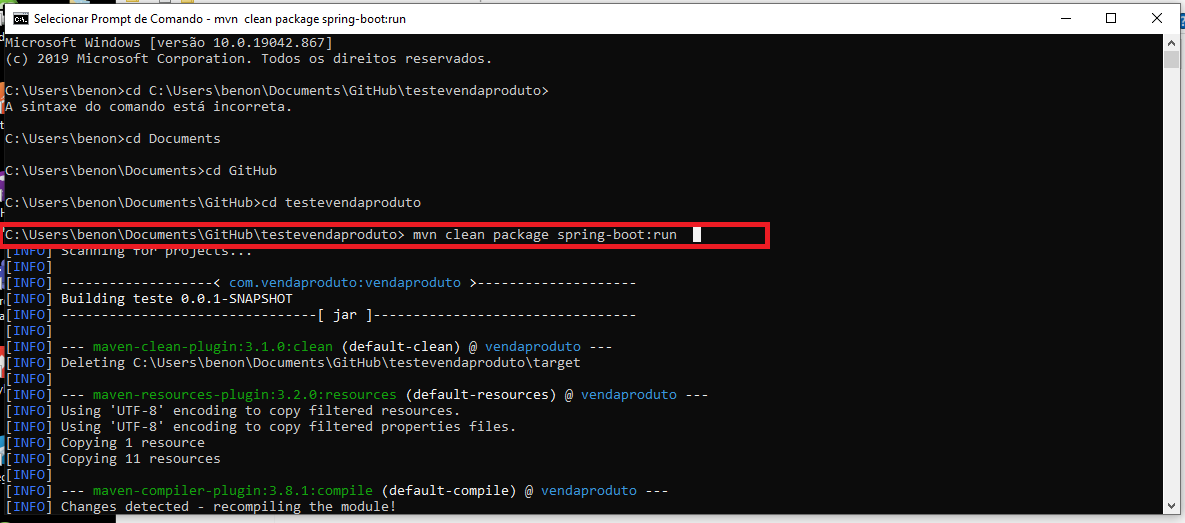
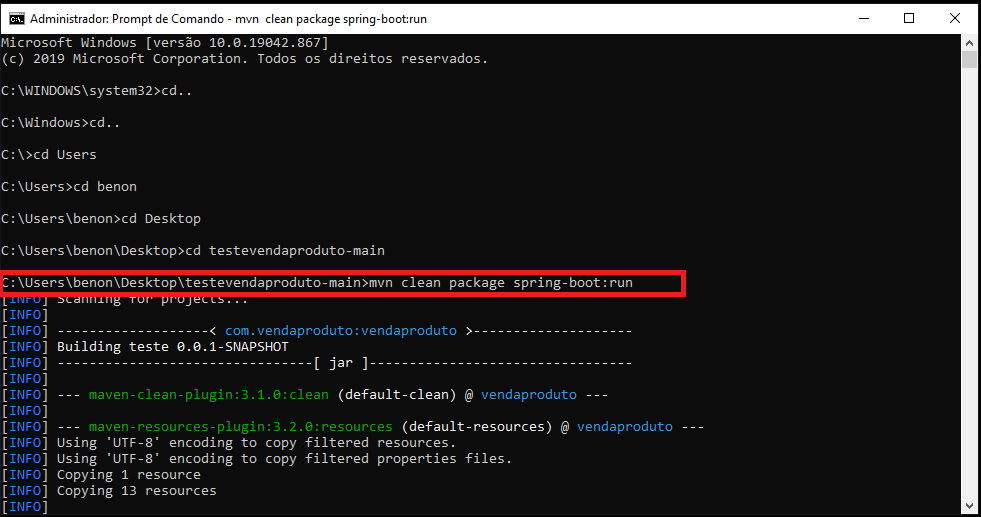
teste

Changed region(s): [[0.0, 0.0, 1.0, 1.0]]

diff --git a/README.md b/README.md
@@ -54,7 +54,7 @@ Após extrair o arquivo, acessar a pasta que foi extraída no prompt de comando,
 
 mvn clean package spring-boot:run
 
-Exemplo: C:\Users\benon\Documents\GitHub\testevendaproduto> mvn clean package spring-boot:run
+Exemplo: C:\Users\benon\Desktop\testevendaproduto-main>mvn clean package spring-boot:run
 
 <img src="/src/main/resources/static/images/readme_info/imgPrompt1.png">
 
